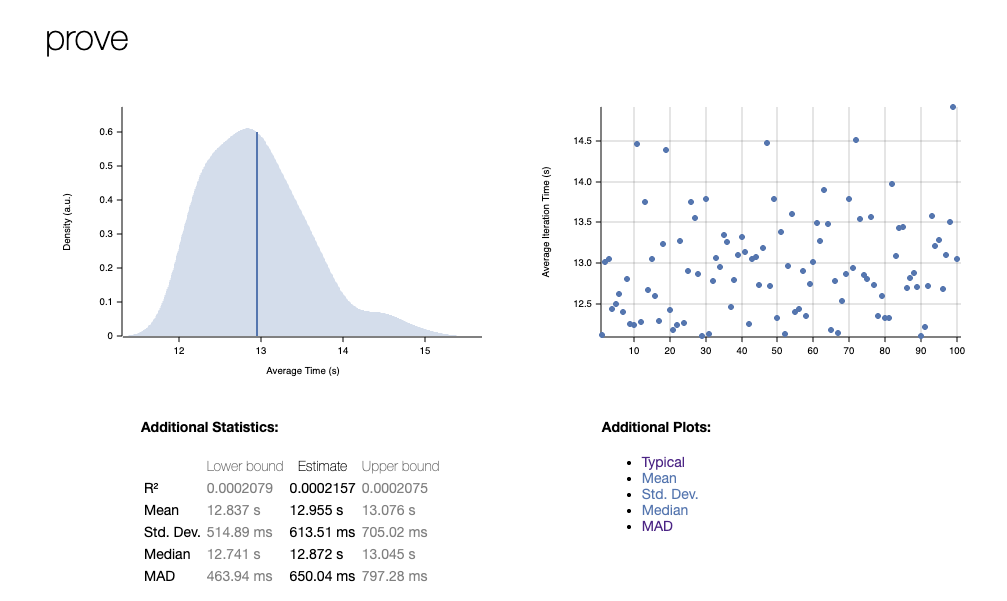
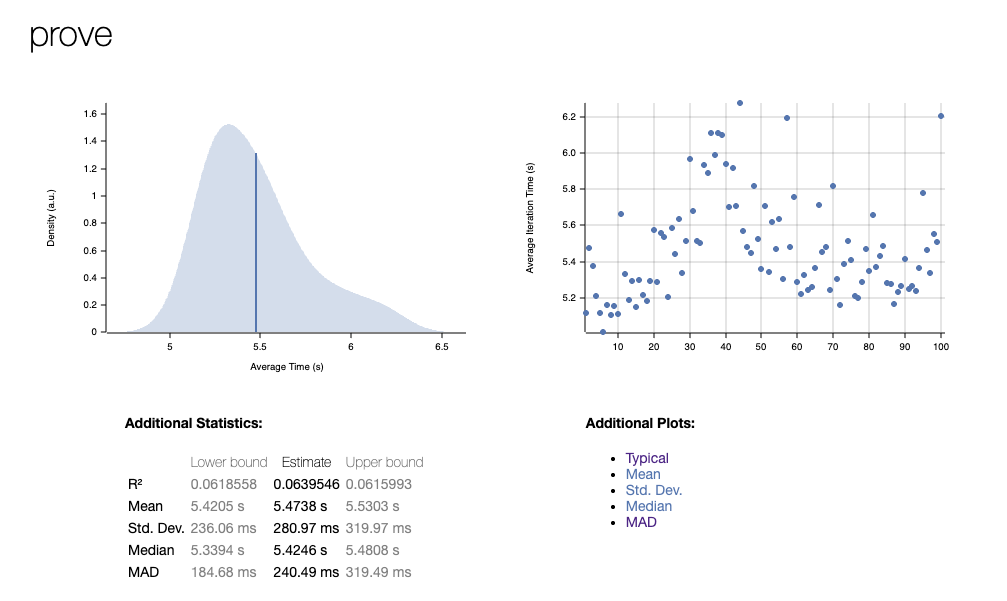
feat : fixed bench and optimised pow & sponge

diff --git a/provekit/common/src/hash/sha2/pow.rs b/provekit/common/src/hash/sha2/pow.rs
@@ -1,6 +1,9 @@
 use {
+    crate::hash::utils::check_pow_bits,
+    rayon,
     sha2::{Digest, Sha256},
     spongefish_pow::PowStrategy,
+    std::sync::atomic::{AtomicU64, Ordering},
 };
 
 #[derive(Clone, Copy)]
@@ -11,10 +14,7 @@ pub struct Sha2PoW {
 
 impl PowStrategy for Sha2PoW {
     fn new(challenge: [u8; 32], bits: f64) -> Self {
-        assert!(
-            (0.0..256.0).contains(&bits),
-            "bits must be smaller than 256"
-        );
+        assert!((0.0..60.0).contains(&bits), "bits must be smaller than 60");
         Self { challenge, bits }
     }
 
@@ -24,36 +24,54 @@ impl PowStrategy for Sha2PoW {
         hasher.update(&self.challenge);
         hasher.update(&nonce.to_le_bytes());
         let hash = hasher.finalize();
-        // Count leading zero bits
-        let threshold_bits = self.bits as u32;
-        let threshold_bytes = (threshold_bits / 8) as usize;
-        let threshold_bits_remainder = (threshold_bits % 8) as u8;
-        // Check full bytes
-        for i in 0..threshold_bytes {
-            if hash[i] != 0 {
-                return false;
-            }
-        }
-        // Check remaining bits in the next byte
-        if threshold_bits_remainder > 0 && threshold_bytes < 32 {
-            let mask = (1u8 << (8 - threshold_bits_remainder)) - 1;
-            if hash[threshold_bytes] & mask != 0 {
-                return false;
-            }
-        }
-        true
+        check_pow_bits(&hash, self.bits)
     }
 
     fn solve(&mut self) -> Option<u64> {
-        let mut nonce = 0u64;
-        loop {
-            if self.check(nonce) {
-                return Some(nonce);
+        let solution = AtomicU64::new(u64::MAX);
+        rayon::broadcast(|ctx| {
+            let challenge = self.challenge;
+            let bits = self.bits;
+            for nonce in (0..).skip(ctx.index()).step_by(ctx.num_threads()) {
+                // Early exit if another thread found a solution
+                if nonce >= solution.load(Ordering::Acquire) {
+                    return;
+                }
+                // Check if this nonce is a solution
+                let mut hasher = Sha256::new();
+                hasher.update(&challenge);
+                hasher.update(&nonce.to_le_bytes());
+                let hash = hasher.finalize();
+                // Count leading zero bits
+                let threshold_bits = bits as u32;
+                let threshold_bytes = (threshold_bits / 8) as usize;
+                let threshold_bits_remainder = (threshold_bits % 8) as u8;
+                // Check full bytes
+                let mut valid = true;
+                for i in 0..threshold_bytes {
+                    if hash[i] != 0 {
+                        valid = false;
+                        break;
+                    }
+                }
+                // Check remaining bits in the next byte
+                if valid && threshold_bits_remainder > 0 && threshold_bytes < 32 {
+                    let mask = (1u8 << (8 - threshold_bits_remainder)) - 1;
+                    if hash[threshold_bytes] & mask != 0 {
+                        valid = false;
+                    }
+                }
+                if valid {
+                    solution.fetch_min(nonce, Ordering::AcqRel);
+                    return;
+                }
             }
-            nonce = nonce.wrapping_add(1);
-            if nonce == 0 {
-                return None; // Wrapped around, no solution found
-            }
+        });
+        let result = solution.load(Ordering::Acquire);
+        if result == u64::MAX {
+            None
+        } else {
+            Some(result)
         }
     }
 }

diff --git a/provekit/common/src/hash/keccak/pow.rs b/provekit/common/src/hash/keccak/pow.rs
@@ -1,6 +1,9 @@
 use {
+    crate::hash::utils::check_pow_bits,
+    rayon,
     sha3::{Digest, Keccak256},
     spongefish_pow::PowStrategy,
+    std::sync::atomic::{AtomicU64, Ordering},
 };
 
 #[derive(Clone, Copy)]
@@ -24,36 +27,54 @@ impl PowStrategy for KeccakPoW {
         hasher.update(&self.challenge);
         hasher.update(&nonce.to_le_bytes());
         let hash = hasher.finalize();
-        // Count leading zero bits
-        let threshold_bits = self.bits as u32;
-        let threshold_bytes = (threshold_bits / 8) as usize;
-        let threshold_bits_remainder = (threshold_bits % 8) as u8;
-        // Check full bytes
-        for i in 0..threshold_bytes {
-            if hash[i] != 0 {
-                return false;
-            }
-        }
-        // Check remaining bits in the next byte
-        if threshold_bits_remainder > 0 && threshold_bytes < 32 {
-            let mask = (1u8 << (8 - threshold_bits_remainder)) - 1;
-            if hash[threshold_bytes] & mask != 0 {
-                return false;
-            }
-        }
-        true
+        check_pow_bits(&hash, self.bits)
     }
 
     fn solve(&mut self) -> Option<u64> {
-        let mut nonce = 0u64;
-        loop {
-            if self.check(nonce) {
-                return Some(nonce);
+        let solution = AtomicU64::new(u64::MAX);
+        rayon::broadcast(|ctx| {
+            let challenge = self.challenge;
+            let bits = self.bits;
+            for nonce in (0..).skip(ctx.index()).step_by(ctx.num_threads()) {
+                // Early exit if another thread found a solution
+                if nonce >= solution.load(Ordering::Acquire) {
+                    return;
+                }
+                // Check if this nonce is a solution
+                let mut hasher = Keccak256::new();
+                hasher.update(&challenge);
+                hasher.update(&nonce.to_le_bytes());
+                let hash = hasher.finalize();
+                // Count leading zero bits
+                let threshold_bits = bits as u32;
+                let threshold_bytes = (threshold_bits / 8) as usize;
+                let threshold_bits_remainder = (threshold_bits % 8) as u8;
+                // Check full bytes
+                let mut valid = true;
+                for i in 0..threshold_bytes {
+                    if hash[i] != 0 {
+                        valid = false;
+                        break;
+                    }
+                }
+                // Check remaining bits in the next byte
+                if valid && threshold_bits_remainder > 0 && threshold_bytes < 32 {
+                    let mask = (1u8 << (8 - threshold_bits_remainder)) - 1;
+                    if hash[threshold_bytes] & mask != 0 {
+                        valid = false;
+                    }
+                }
+                if valid {
+                    solution.fetch_min(nonce, Ordering::AcqRel);
+                    return;
+                }
             }
-            nonce = nonce.wrapping_add(1);
-            if nonce == 0 {
-                return None; // Wrapped around, no solution found
-            }
+        });
+        let result = solution.load(Ordering::Acquire);
+        if result == u64::MAX {
+            None
+        } else {
+            Some(result)
         }
     }
 }

diff --git a/provekit/common/src/hash/utils.rs b/provekit/common/src/hash/utils.rs
@@ -4,11 +4,14 @@ use {
 };
 
 pub fn bigint_from_bytes_le<const N: usize>(bytes: &[u8]) -> BigInt<N> {
-    let limbs = bytes
-        .chunks_exact(8)
-        .map(|s| u64::from_le_bytes(s.try_into().unwrap()))
-        .collect::<Vec<_>>();
-    BigInt::new(limbs.try_into().unwrap())
+    // Avoid Vec allocation by using a fixed-size array
+    let mut limbs = [0u64; N];
+    for (i, chunk) in bytes.chunks_exact(8).enumerate() {
+        if i < N {
+            limbs[i] = u64::from_le_bytes(chunk.try_into().unwrap());
+        }
+    }
+    BigInt::new(limbs)
 }
 
 pub fn field_to_bytes(f: FieldElement) -> [u8; 32] {
@@ -25,4 +28,25 @@ pub fn field_to_bytes(f: FieldElement) -> [u8; 32] {
 
 pub fn bytes_to_field(bytes: [u8; 32]) -> FieldElement {
     FieldElement::new(bigint_from_bytes_le(&bytes))
+}
+
+pub fn check_pow_bits(hash: &[u8], bits: f64) -> bool {
+    // Count leading zero bits
+    let threshold_bits = bits as u32;
+    let threshold_bytes = (threshold_bits / 8) as usize;
+    let threshold_bits_remainder = (threshold_bits % 8) as u8;
+    // Check full bytes
+    for i in 0..threshold_bytes {
+        if hash[i] != 0 {
+            return false;
+        }
+    }
+    // Check remaining bits in the next byte
+    if threshold_bits_remainder > 0 && threshold_bytes < 32 {
+        let mask = (1u8 << (8 - threshold_bits_remainder)) - 1;
+        if hash[threshold_bytes] & mask != 0 {
+            return false;
+        }
+    }
+    true
 }

diff --git a/provekit/common/src/hash/sha2/sponge.rs b/provekit/common/src/hash/sha2/sponge.rs
@@ -41,14 +41,15 @@ impl Permutation for Sha2 {
 
     fn permute(&mut self) {
         // Convert state to bytes: 2 field elements = 64 bytes
-        let state_bytes: Vec<u8> = self.state.iter().flat_map(|f| field_to_bytes(*f)).collect();
+        let mut state_bytes: [u8; 64] = [0; 64];
+        state_bytes[0..32].copy_from_slice(&field_to_bytes(self.state[0]));
+        state_bytes[32..64].copy_from_slice(&field_to_bytes(self.state[1]));
+
         // Hash with SHA2 to get 32 bytes
         let mut hasher = Sha256::new();
         hasher.update(&state_bytes);
         let hash_bytes = hasher.finalize();
-        // Split hash into two 16-byte chunks and convert to field elements
-        // We'll use the first 32 bytes for the first element, and hash again for the
-        // second
+        // Use the first 32 bytes for the first element, and hash again for the second
         let first_bytes: [u8; 32] = hash_bytes.into();
         let first = bytes_to_field(first_bytes);
         // Hash again with the first element to get the second element

diff --git a/provekit/common/src/hash/mod.rs b/provekit/common/src/hash/mod.rs
@@ -18,19 +18,16 @@ cfg_if! {
         pub type Sponge = crate::hash::sha2::Sha2Sponge;
         pub type MerkleConfig = crate::hash::sha2::Sha2MerkleConfig;
         pub type PoW = crate::hash::sha2::Sha2PoW;
-
     } else if #[cfg(feature = "hash-blake3")] {
         pub mod blake3;
         pub type Sponge = crate::hash::blake3::Blake3Sponge;
         pub type MerkleConfig = crate::hash::blake3::Blake3MerkleConfig;
         pub type PoW = crate::hash::blake3::Blake3PoW;
-
     } else if #[cfg(feature = "hash-keccak")] {
         pub mod keccak;
         pub type Sponge = crate::hash::keccak::KeccakSponge;
         pub type MerkleConfig = crate::hash::keccak::KeccakMerkleConfig;
         pub type PoW = crate::hash::keccak::KeccakPoW;
-
     } else {
         pub mod skyscraper;
         pub type Sponge = crate::hash::skyscraper::SkyscraperSponge;

diff --git a/provekit/common/src/hash/keccak/sponge.rs b/provekit/common/src/hash/keccak/sponge.rs
@@ -41,7 +41,9 @@ impl Permutation for Keccak {
 
     fn permute(&mut self) {
         // Convert state to bytes: 2 field elements = 64 bytes
-        let state_bytes: Vec<u8> = self.state.iter().flat_map(|f| field_to_bytes(*f)).collect();
+        let mut state_bytes: [u8; 64] = [0; 64];
+        state_bytes[0..32].copy_from_slice(&field_to_bytes(self.state[0]));
+        state_bytes[32..64].copy_from_slice(&field_to_bytes(self.state[1]));
         // Hash with Keccak-256 to get 32 bytes
         let mut hasher = Keccak256::new();
         hasher.update(&state_bytes);

diff --git a/provekit/common/src/hash/blake3/sponge.rs b/provekit/common/src/hash/blake3/sponge.rs
@@ -41,7 +41,9 @@ impl Permutation for Blake3 {
 
     fn permute(&mut self) {
         // Convert state to bytes: 2 field elements = 64 bytes
-        let state_bytes: Vec<u8> = self.state.iter().flat_map(|f| field_to_bytes(*f)).collect();
+        let mut state_bytes: [u8; 64] = [0; 64];
+        state_bytes[0..32].copy_from_slice(&field_to_bytes(self.state[0]));
+        state_bytes[32..64].copy_from_slice(&field_to_bytes(self.state[1]));
         // Hash with BLAKE3 to get 32 bytes
         let mut hasher = Hasher::new();
         hasher.update(&state_bytes);

diff --git a/benchmarks/benchmark.md b/benchmarks/benchmark.md
@@ -23,10 +23,10 @@ cd noir-examples/noir-passport-examples/complete_age_check
 nargo compile
 
 # Prepare
-cargo run --bin provekit-cli --features hash-<hash_function> prepare noir-examples/noir-passport-examples/complete_age_check/target/complete_age_check.json --pkp ./prover.pkp --pkv ./verifier.pkv
+cargo run --bin provekit-cli --release --features hash-<hash_function> prepare noir-examples/noir-passport-examples/complete_age_check/target/complete_age_check.json --pkp ./prover.pkp --pkv ./verifier.pkv
 
 # Run benchmarks
-cargo run --bin provekit-cli --features hash-<hash_function> benchmark ./prover.pkp ./verifier.pkv noir-examples/noir-passport-examples/complete_age_check/Prover.toml
+cargo run --bin provekit-cli --release --features hash-<hash_function> benchmark ./prover.pkp ./verifier.pkv noir-examples/noir-passport-examples/complete_age_check/Prover.toml
 ```
 
 This will generate a report in the `target/criterion` directory.
@@ -38,7 +38,7 @@ open $pwd/target/criterion/report/index.html
 To get memory usage run :
 
 ```sh
-cargo instruments --template Allocations --bin provekit-cli --features hash-<hash_function> prove ./prover.pkp noir-examples/noir-passport-examples/complete_age_check/Prover.toml -o ./proof.np
+cargo instruments --template Allocations --bin provekit-cli --release --features hash-<hash_function> prove ./prover.pkp noir-examples/noir-passport-examples/complete_age_check/Prover.toml -o ./proof.np
 ```
 
 Example output:
@@ -50,6 +50,6 @@ Example output:
 | Hash Function | Proving Time (Mean) | Verification Time (Mean) | Prover Chart                          | Verifier Chart                         |
 | ------------- | ------------------- | ------------------------ | ------------------------------------- | -------------------------------------- |
 | Skyscraper    | 5.869s              | 33.804ms                 | ![Skyscraper](./skyscraper/prove.png) | ![Skyscraper](./skyscraper/verify.png) |
-| SHA2          | 12.837s             | 31.859ms                 | ![SHA2](./sha2/prove.png)             | ![SHA2](./sha2/verify.png)             |
-| Blake3        | 65.335s             | 234.52ms                 | ![Blake3](./blake3/prove.png)         | ![Blake3](./blake3/verify.png)         |
-| Keccak        | 82.010s             | 273.19ms                 | ![Keccak](./keccak/prove.png)         | ![Keccak](./keccak/verify.png)         |
+| SHA2          | 5.420s              | 30.790ms                 | ![SHA2](./sha2/prove.png)             | ![SHA2](./sha2/verify.png)             |
+| Blake3        | 4.430s              | 26.615ms                 | ![Blake3](./blake3/prove.png)         | ![Blake3](./blake3/verify.png)         |
+| Keccak        | 4.924s              | 28.573ms                 | ![Keccak](./keccak/prove.png)         | ![Keccak](./keccak/verify.png)         |
